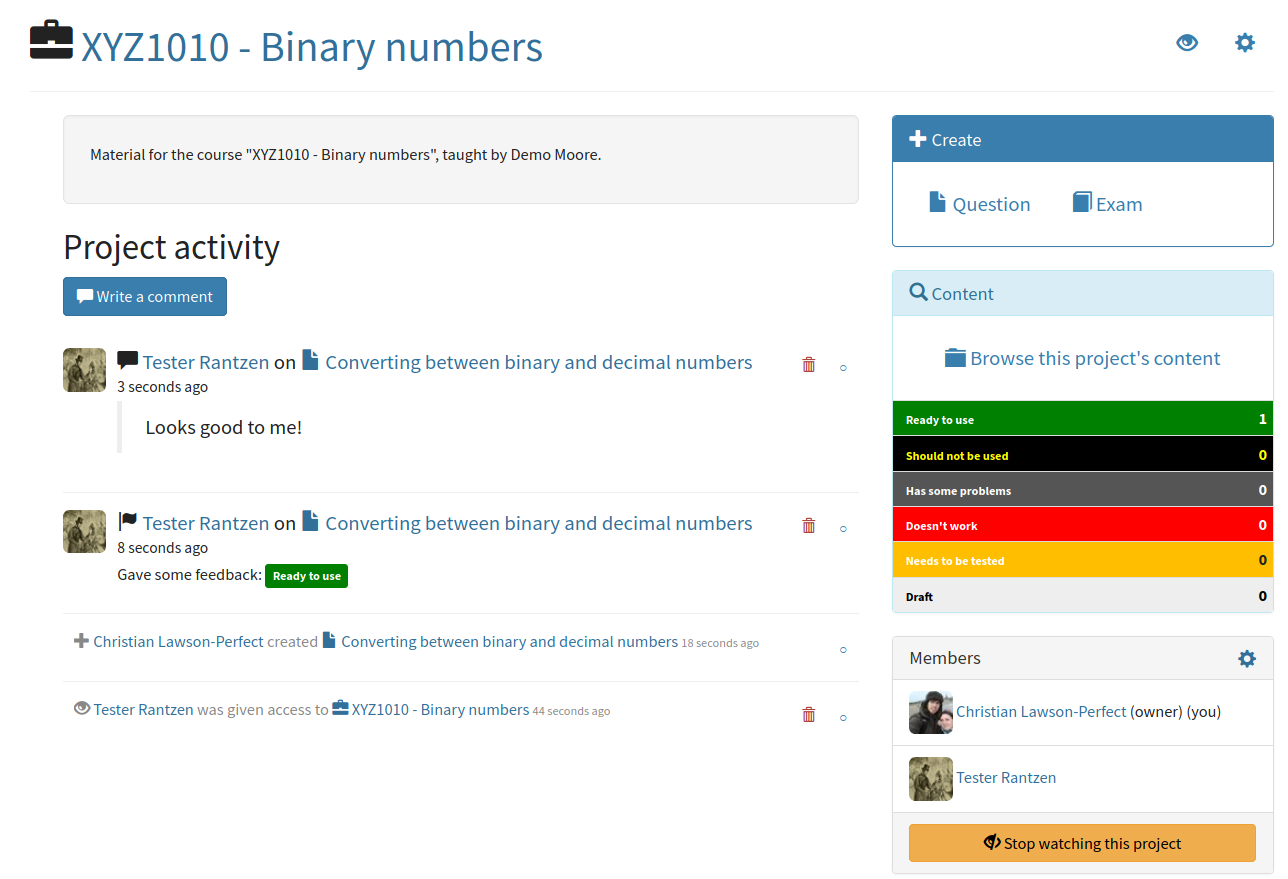
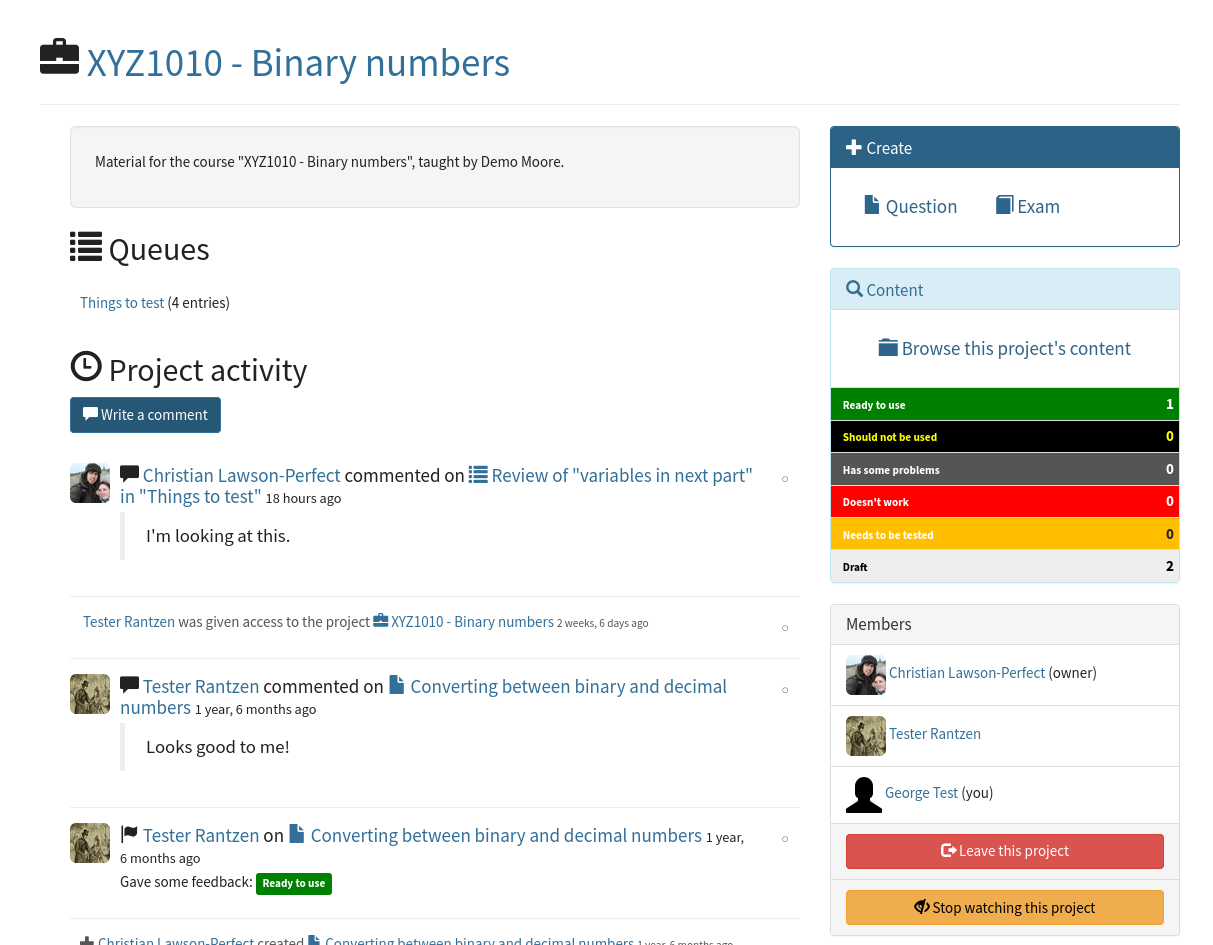
more on queues
Notifications and emails about actions on queues and queue entries.

diff --git a/editor/templates/base.html b/editor/templates/base.html
@@ -66,20 +66,27 @@
                         <h4 class="modal-title">Add <em class="item-name"></em> to a queue</h4>
                     </div>
                     <div class="modal-body">
-                        <p>Choose a queue to add this item to.</p>
-                        <table class="queues table">
-                            {% for queue in user.userprofile.available_queues %}
-                            <tr>
-                                <td class="queue-info">
-                                    <p><a target="_blank" href="{% url 'queue_view' queue.pk %}"><span class="glyphicon glyphicon-list"></span> {{queue.name}}</a></p>
-                                    <p class="text-muted"><a class="text-muted" target="_blank" href="{{queue.project.get_absolute_url}}"><span class="glyphicon glyphicon-briefcase"></span> {{queue.project.name}}</a></p>
-                                </td>
-                                <td>
-                                    <a class="pick btn btn-primary" href="{% url 'queue_add' queue.pk %}"><span class="glyphicon glyphicon-plus"></span> Add to this queue</a>
-                                </td>
-                            </tr>
-                            {% endfor %}
-                        </table>
+                        {% if user.userprofile.available_queues.exists %}
+                            <p>Choose a queue to add this item to.</p>
+                            <table class="queues table">
+                                {% for queue in user.userprofile.available_queues %}
+                                <tr>
+                                    <td class="queue-info">
+                                        <p><a target="_blank" href="{% url 'queue_view' queue.pk %}"><span class="glyphicon glyphicon-list"></span> {{queue.name}}</a></p>
+                                        <p class="text-muted"><a class="text-muted" target="_blank" href="{{queue.project.get_absolute_url}}"><span class="glyphicon glyphicon-briefcase"></span> {{queue.project.name}}</a></p>
+                                    </td>
+                                    <td>
+                                        <a class="pick btn btn-primary" href="{% url 'queue_add' queue.pk %}"><span class="glyphicon glyphicon-plus"></span> Add to this queue</a>
+                                    </td>
+                                </tr>
+                                {% endfor %}
+                            </table>
+                        {% else %}
+                            <div class="nothing-here">
+                                <p>You don't have access to any queues at the moment.</p>
+                                <p>You can create one in any project you have editing access to.</p>
+                            </div>
+                        {% endif %}
                     </div>
                 </div>
             </div>

diff --git a/editor/templates/queue/review_entry.html b/editor/templates/queue/review_entry.html
@@ -8,6 +8,17 @@
 
 {% block title %}Review {{entry.item.name}} - {{entry.queue.name}} - {{block.super}}{% endblock title %}
 
+{% block javascripts %}
+    {{block.super}}
+
+    <script src="{% sstatic 'js/queue/review_entry.js' %}" type="text/javascript"></script>
+{% endblock javascripts %}
+
+{% block stylesheets %}
+    {{ block.super }}
+    <link rel="stylesheet" type="text/css" href="{% sstatic 'css/queue/review.css' %}"/>
+{% endblock stylesheets %}
+
 {% block queue_content %}
 {% with can_edit=entry|can_be_edited_by:user %}
 <section id="item">
@@ -43,7 +54,7 @@
     <h2>Checklist</h2>
     {% if can_edit %}
     <div class="row">
-        <div id="reviewer-instructions" class="col-md-6">
+        <div id="reviewer-instructions" class="instructions col-md-6">
             {{entry.queue.instructions_reviewer|strip_html_shift_headings|safe}}
         </div>
         <form method="POST" action="" class="form-horizontal col-md-6">
@@ -114,14 +125,3 @@
 
 {% endwith %}
 {% endblock queue_content %}
-
-{% block javascripts %}
-    {{block.super}}
-
-    <script src="{% sstatic 'js/queue/review_entry.js' %}" type="text/javascript"></script>
-{% endblock javascripts %}
-
-{% block stylesheets %}
-    {{ block.super }}
-    <link rel="stylesheet" type="text/css" href="{% sstatic 'css/queue/review.css' %}"/>
-{% endblock stylesheets %}

diff --git a/editor/templates/queue/add.html b/editor/templates/queue/add.html
@@ -1,4 +1,5 @@
 {% extends "layout.html" %}
+{% load sstatic %}
 {% load sanitizer %}
 {% load extra_sanitize %}
 {% load links %}
@@ -14,16 +15,22 @@
 </script>
 {% endblock %}
 
+{% block stylesheets %}
+    {{ block.super }}
+    <link rel="stylesheet" type="text/css" href="{% sstatic 'css/queue/review.css' %}"/>
+{% endblock stylesheets %}
+
 {% block content %}
 <div class="page-header">
     <h1><span class="glyphicon glyphicon-list"></span> Add an item to <a href="{% url 'queue_view' queue.pk %}">{{queue.name}}</a></h1>
 </div>
 
-<section class="instructions">
+<div class="row">
+<section class="instructions col-md-6">
     {{queue.instructions_submitter|strip_html_shift_headings:2|safe}}
 </section>
 
-<form action="" method="post" class="form-horizontal">
+<form action="" method="post" class="form-horizontal col-md-6">
     {% csrf_token %}
     {% for field in form.hidden_fields %}{{field}}{% endfor %}
 
@@ -75,5 +82,6 @@
         <button type="submit" class="btn btn-primary">Submit</button></p>
     </div>
 </form>
+</div>
 
 {% endblock content %}

diff --git a/editor/templates/timeline/item_queue_entry.html b/editor/templates/timeline/item_queue_entry.html
@@ -1,0 +1,21 @@
+{% extends "timeline/item.html" %}
+{% load user_link %}
+{% load links %}
+
+{% block thumbnail %}
+{% endblock thumbnail %}
+
+{% block heading %}
+    <span class="glyphicon glyphicon-{{item.object.icon}}"></span> {% user_link item.object.created_by %}
+    added {% editoritem_link item.object.item.rel_obj %} to the queue
+    {% if include_object_link %}<a href="{{item.timeline.get_absolute_url}}">{% endif %}<span class="glyphicon glyphicon-{{item.timeline.icon}}"></span> {{item.timeline.name}}{% if include_object_link %}</a>{% endif %}
+{% endblock %}
+
+{% block on_object %}{% endblock on_object %}
+
+{% block timelineitem_class %}less-important{% endblock %}
+
+{% block delete_text %}Remove this item from the queue{% endblock %}
+
+{% block content %}
+{% endblock content %}

diff --git a/editor/templates/notifications/email/itemqueueentry__comment.html b/editor/templates/notifications/email/itemqueueentry__comment.html
@@ -2,7 +2,7 @@
 {% load sanitizer %}
 
 {% block content %}
-<p><a href="{{domain}}{% url 'view_profile' actor.pk %}">{{actor.get_full_name}}</a> {{notification.verb}} the entry "<a href="{{domain}}{% url 'queue_entry_review' target.pk %}">{{target.item.name}}</a>" in the queue <a href="{% url 'queue_view' target.queue.pk %}">{{target.queue.name}}</a>.
+<p><a href="{{domain}}{% url 'view_profile' actor.pk %}">{{actor.get_full_name}}</a> {{notification.verb}} the entry "<a href="{{domain}}{% url 'queue_entry_review' target.pk %}">{{target.item.name}}</a>" in the queue <a href="{{domain}}{% url 'queue_view' target.queue.pk %}">{{target.queue.name}}</a>.
 
 <blockquote>
     {{action_object.text|strip_html|safe}}

diff --git a/accounts/templates/registration/update.html b/accounts/templates/registration/update.html
@@ -85,6 +85,7 @@
             <ul class="list-unstyled">
                 <li>{{form.email_about_stamps}} <label for="{{form.email_about_stamps.auto_id}}">feedback on items you're watching</label></li>
                 <li>{{form.email_about_comments}} <label for="{{form.email_about_comments.auto_id}}">comments on items you're watching</label></li>
+                <li>{{form.email_about_item_queue_entries}} <label for="{{form.email_about_item_queue_entries.auto_id}}">submissions to queues you're watching</label></li>
             </ul>
         </div>
         <div class="form-group">

diff --git a/editor/templates/notifications/email/itemqueue__itemqueueentry.html b/editor/templates/notifications/email/itemqueue__itemqueueentry.html
@@ -1,0 +1,9 @@
+{% extends "notifications/email/base.html" %}
+{% load sanitizer %}
+{% load links %}
+
+{% block content %}
+<p><a href="{{domain}}{% url 'view_profile' actor.pk %}">{{actor.get_full_name}}</a> has submitted the item "<a href="{{domain}}{% editoritem_url 'edit' action_object.item.rel_obj %}">{{action_object.item.name}}</a>" to the queue <a href="{{domain}}{% url 'queue_view' action_object.queue.pk %}">{{action_object.queue.name}}</a>.
+
+<p><a href="{{domain}}{% url 'queue_entry_review' action_object.pk %}">Review this entry</a></p>
+{% endblock content %}

diff --git a/editor/templates/timeline/comment.html b/editor/templates/timeline/comment.html
@@ -6,7 +6,7 @@
     {% user_thumbnail item.object.user 40 36 link=True %}
 {% endblock thumbnail %}
 
-{% block heading %}<span class="glyphicon glyphicon-comment"></span> {% user_link item.object.user %}{% endblock %}
+{% block heading %}<span class="glyphicon glyphicon-comment"></span> {% user_link item.object.user %} commented{% endblock %}
 
 {% block content %}
 <blockquote>{{item.object.text|strip_html|safe}}</blockquote>

diff --git a/editor/static/css/queue/review.css b/editor/static/css/queue/review.css
@@ -1,4 +1,4 @@
-#reviewer-instructions {
+.instructions {
     max-height: 80vh;
     overflow-y: auto;
 }

diff --git a/editor/models.py b/editor/models.py
@@ -242,7 +242,12 @@ class Project(models.Model, ControlledObject):
         return list(User.objects.filter(individual_accesses__in=self.access.all()).exclude(pk=self.owner.pk))
 
     def all_timeline(self):
-        items = self.timeline.all() | TimelineItem.objects.filter(editoritems__project=self)
+        items = self.timeline.all() | TimelineItem.objects.filter(
+            Q(editoritems__project=self) |
+            Q(item_queue_entry__queue__project = self) |
+            Q(item_queue_entries__queue__project = self)
+        )
+
         items.order_by('-date')
         return items
 
@@ -1451,9 +1456,15 @@ class Timeline(object):
 
         if not self.viewing_user.is_anonymous:
             projects = self.viewing_user.own_projects.all() | Project.objects.filter(access__in=self.viewing_user.individual_accesses.all()) | Project.objects.filter(watching_non_members=self.viewing_user)
+            queues = ItemQueue.objects.filter(owner=self.viewing_user) | ItemQueue.objects.filter(access__in=self.viewing_user.individual_accesses.all())
             items_for_user = (
+                Q(editoritems__in=EditorItem.objects.filter(Q(access__user=self.viewing_user) | Q(author=self.viewing_user))) | 
                 Q(editoritems__project__in=projects) |
                 Q(projects__in=projects) |
+                Q(item_queue_entry__queue__project__in = projects) |
+                Q(item_queue_entry__queue__in = queues) |
+                Q(item_queue_entries__queue__project__in = projects) |
+                Q(item_queue_entries__queue__in = queues) |
                 Q(individual_accesses__user=viewing_user)
 #                Q(editoritems__accesses__in=self.viewing_user.item_accesses.all()) | 
  #               Q(extension_accesses__user=viewing_user) |
@@ -1923,7 +1934,7 @@ def item_created_timeline_event(instance, created, **kwargs):
 
 class ItemQueueManager(models.Manager):
     def visible_to(self,user):
-        return self.all()
+        return self.filter(ItemQueue.filter_can_be_viewed_by(user))
 
 class ItemQueue(models.Model, ControlledObject):
     objects = ItemQueueManager()
@@ -1936,12 +1947,43 @@ class ItemQueue(models.Model, ControlledObject):
     public = models.BooleanField(default=False, verbose_name='Visible to everyone?')
 
     access = GenericRelation('IndividualAccess', related_query_name='item_queue', content_type_field='object_content_type', object_id_field='object_id')
+    timeline_noun = 'queue'
+
+    icon = 'list'
+
+    def __str__(self):
+        return self.name
 
     def is_published(self):
         return self.public
 
     def can_be_viewed_by(self, user):
         return super().can_be_viewed_by(user) or self.project.can_be_viewed_by(user)
+
+    @classmethod
+    def filter_can_be_viewed_by(cls, user):
+        if getattr(settings, 'EVERYTHING_VISIBLE', False):
+            return Q()
+        
+        view_perms = ('edit', 'view')
+        if cls.superuser_sees_everything and user.is_superuser:
+            return Q()
+        elif user.is_anonymous:
+            return Q(public=True)
+        else:
+            return (Q(access__user=user, access__access__in=view_perms) 
+                    | Q(public=True)
+                    | Q(owner=user)
+                    | Q(project__in=Project.objects.filter(Project.filter_can_be_viewed_by(user)))
+                   )
+
+    @property
+    def watching_users(self):
+        query = Q(pk=self.owner.pk) | Q(individual_accesses__item_queue=self)
+        return User.objects.filter(query).distinct()
+
+    def get_absolute_url(self):
+        return reverse('queue_view', args=(self.pk,))
 
 class ItemQueueChecklistItem(models.Model):
     queue = models.ForeignKey(ItemQueue, on_delete=models.CASCADE, related_name='checklist')
@@ -1958,7 +2000,7 @@ class ItemQueueEntryManager(models.Manager):
     def incomplete(self):
         return self.filter(complete=False)
 
-class ItemQueueEntry(models.Model, ControlledObject):
+class ItemQueueEntry(models.Model, ControlledObject, TimelineMixin):
     objects = ItemQueueEntryManager()
 
     icon = 'list'
@@ -1981,8 +2023,18 @@ class ItemQueueEntry(models.Model, ControlledObject):
     comments = GenericRelation('Comment', content_type_field='object_content_type', object_id_field='object_id', related_query_name='item_queue_entry')
     timeline = GenericRelation('TimelineItem', related_query_name='item_queue_entry', content_type_field='timeline_content_type', object_id_field='timeline_id')
 
+    timelineitems = GenericRelation(TimelineItem, related_query_name='item_queue_entries', content_type_field='object_content_type', object_id_field='object_id')
+    timelineitem_template = 'timeline/item_queue_entry.html'
+
+    def timeline_object(self):
+        return self.queue
+
     def checklist_items(self):
         return self.queue.checklist.all().annotate(ticked=Exists(ItemQueueChecklistTick.objects.filter(item=OuterRef('pk'), entry=self)))
+
+    @property
+    def name(self):
+        return "Review of \"{}\" in \"{}\"".format(self.item.name, self.queue.name)
 
     def is_published(self):
         return self.public
@@ -1992,7 +2044,7 @@ class ItemQueueEntry(models.Model, ControlledObject):
         return self.created_by
 
     def can_be_edited_by(self, user):
-        return user==self.created_by or self.queue.can_be_edited_by(user)
+        return self.queue.can_be_edited_by(user)
 
     def can_be_viewed_by(self, user):
         return self.queue.can_be_viewed_by(user) or self.project.can_be_viewed_by(user)
@@ -2006,6 +2058,11 @@ class ItemQueueEntry(models.Model, ControlledObject):
     def watching_users(self):
         query = Q(pk=self.created_by.pk) | Q(comments__item_queue_entry=self)
         return User.objects.filter(query).distinct()
+
+@receiver(signals.post_save, sender=ItemQueueEntry)
+def notify_comment(instance, created, **kwargs):
+    if created:
+        notify_watching(instance.created_by, target=instance.queue, verb='submitted an item to', action_object=instance)
 
 class ItemQueueChecklistTick(models.Model):
     entry = models.ForeignKey(ItemQueueEntry, on_delete=models.CASCADE, related_name='ticks')

diff --git a/accounts/models.py b/accounts/models.py
@@ -58,6 +58,7 @@ class UserProfile(models.Model):
 
     email_about_stamps = models.BooleanField(default=True, verbose_name='Send emails about feedback on items you\'re watching?')
     email_about_comments = models.BooleanField(default=True, verbose_name='Send emails about comments on items you\'re watching?')
+    email_about_item_queue_entries = models.BooleanField(default=True, verbose_name='Send emails about entries on item queues you\'re watching?')
     never_email = models.BooleanField(default=False, verbose_name='Unsubscribe from all emails')
 
     def sorted_tags(self):
@@ -80,11 +81,16 @@ class UserProfile(models.Model):
         projects = self.user.own_projects.all() | Project.objects.filter(access__in=self.user.individual_accesses.all()) | Project.objects.filter(watching_non_members=self.user)
         nonsticky_broadcasts = SiteBroadcast.objects.visible_now().exclude(sticky=True)
         nonsticky_broadcast_timelineitems = TimelineItem.objects.filter(object_content_type=ContentType.objects.get_for_model(SiteBroadcast), object_id__in=nonsticky_broadcasts)
+        queues = ItemQueue.objects.filter(owner=self.user) | ItemQueue.objects.filter(access__in=self.user.individual_accesses.all())
 
         items = TimelineItem.objects.filter(
             Q(editoritems__in=EditorItem.objects.filter(Q(access__user=self.user) | Q(author=self.user))) | 
             Q(editoritems__project__in=projects) |
-            Q(projects__in=projects)
+            Q(projects__in=projects) |
+            Q(item_queue_entries__queue__project__in = projects) |
+            Q(item_queue_entries__queue__in = queues) |
+            Q(item_queue_entry__queue__project__in = projects) |
+            Q(item_queue_entry__queue__in = queues)
         )
 
         items = (items | nonsticky_broadcast_timelineitems).order_by('-date')

diff --git a/editor/management/commands/make_taxonomies.py b/editor/management/commands/make_taxonomies.py
@@ -1,0 +1,47 @@
+from django.core.management.base import BaseCommand
+from django.contrib.auth.models import User
+import re
+from editor.models import Taxonomy, TaxonomyNode
+
+class Command(BaseCommand):
+    help = 'Create taxonomies'
+
+    def add_arguments(self, parser):
+        parser.add_argument('file', type=str)
+
+    def handle(self, *args, **options):
+        filename = options['file']
+        structure = (0,'',[])
+        stack = []
+
+        with open(filename) as f:
+            for line in f:
+                indentation = len(re.match(r'^ *',line)[0])//4
+                name = line.strip()
+                if not name:
+                    continue
+
+                ci, _, children = structure
+
+                nstructure = (indentation+1,name,[])
+                if indentation>ci:
+                    stack.append(structure)
+                    structure = children[-1]
+                elif indentation<ci:
+                    while structure[0]>indentation:
+                        structure = stack.pop()
+                ci, _, children = structure
+                children.append(nstructure)
+
+        _,_, taxonomies = stack[0]
+
+        def make_node(taxonomy,parent,structure,code):
+            _,name,children = structure
+            node = TaxonomyNode.objects.create(taxonomy=taxonomy, parent=parent, name=name, code=code)
+            for i,c in enumerate(children):
+                make_node(taxonomy, node, c, code+'.'+str(i+1))
+
+        for _,name,children in taxonomies:
+            t = Taxonomy.objects.create(name=name)
+            for i,c in enumerate(children):
+                make_node(t,None,c,str(i+1))
